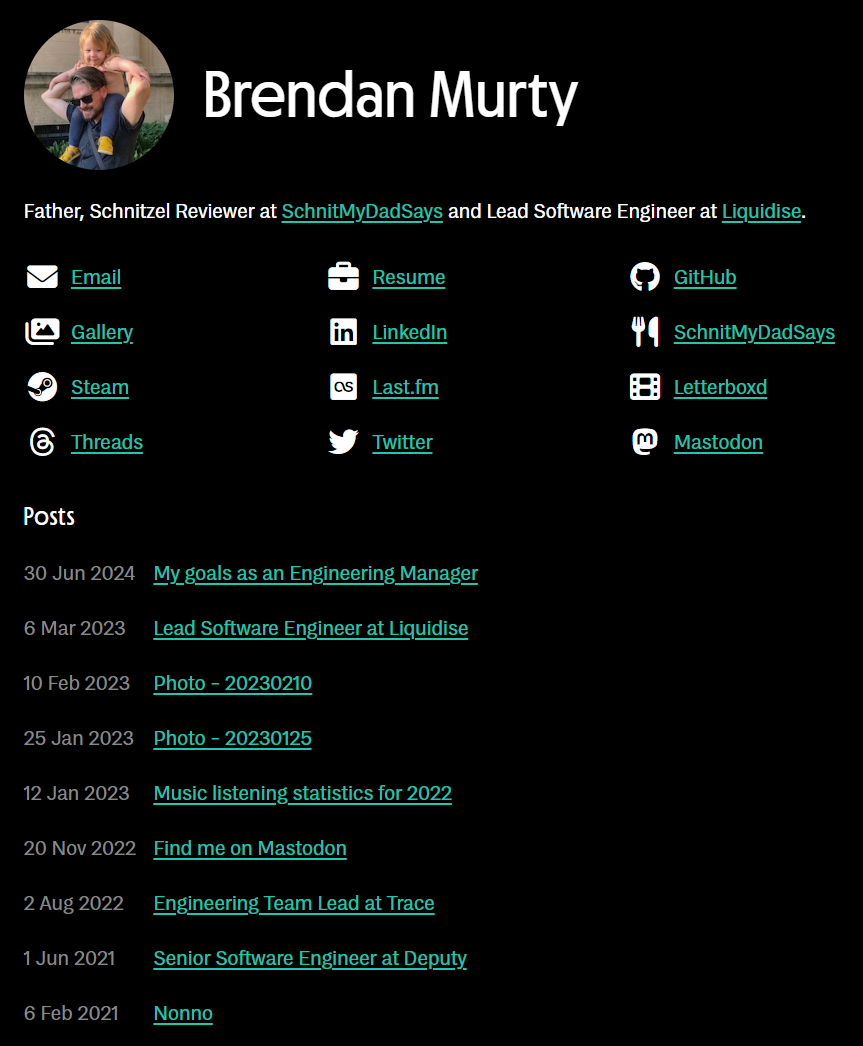
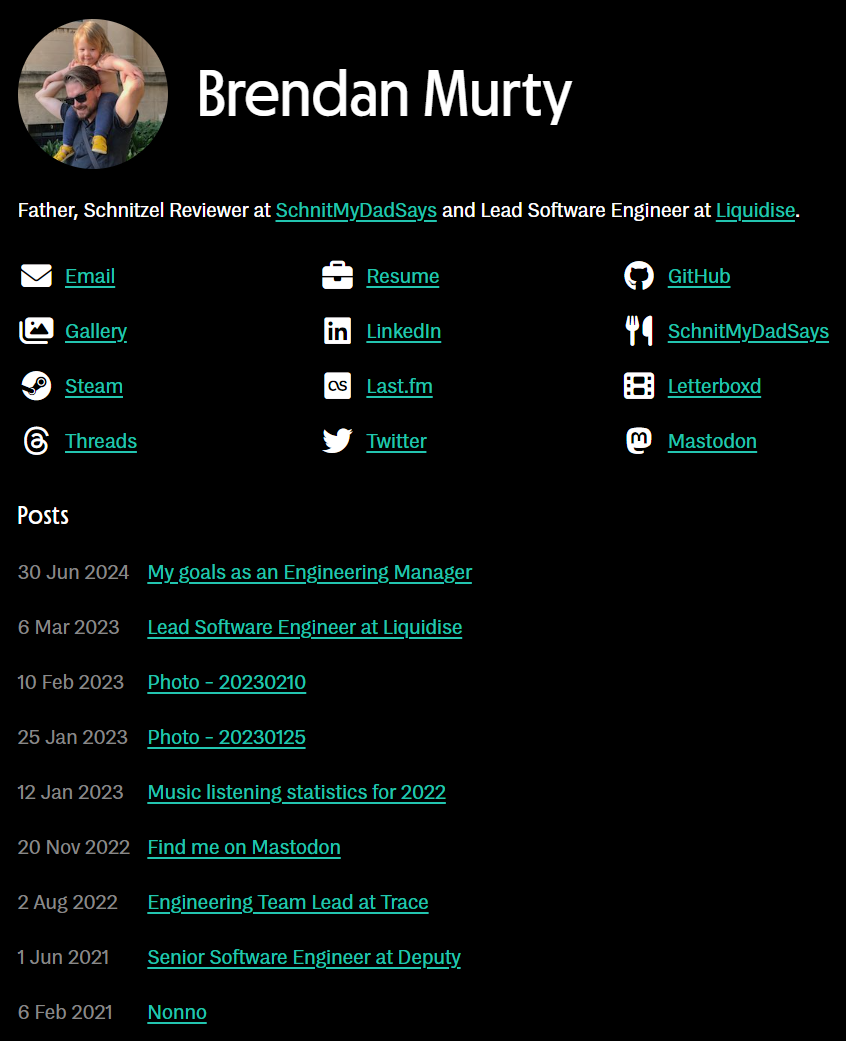
Design: Simplify layout and remove obsolete CSS

diff --git a/styles/all.css b/styles/all.css
@@ -293,7 +293,6 @@ a:focus {
 
 a:hover,
 a:focus,
-.brendan ul.listing:not(.connect) .label,
 .murty ul.sites .list-name {
   text-decoration: underline;
   text-underline-offset: 3px;
@@ -348,33 +347,13 @@ pre {
 
 /* Common styles */
 
-.murty ul.sites {
-  list-style: none;
-  margin: 0;
-  padding: 0;
-}
-
-.murty ul.sites>li {
-  margin: 30px 0 0;
-  padding: 30px 0 0;
-  text-align: left;
-  float: left;
-  clear: both;
-  width: 100%;
-}
-
-.murty ul.sites>li.first {
-  margin-top: 0;
-  padding-top: 0;
-}
-
-.murty ul.sites>li header,
-.murty ul.sites>li article {
+.murty header,
+.murty article {
   width: 100%;
   padding: 0;
 }
 
-.murty ul.sites .list-avatar {
+.murty .list-avatar {
   height: auto;
   width: 150px;
   border-radius: 150px;
@@ -382,7 +361,7 @@ pre {
   float: left;
 }
 
-.murty ul.sites .list-name {
+.murty .list-name {
   display: inline-block;
   line-height: 150px;
   margin: 0;
@@ -391,12 +370,12 @@ pre {
 /* Small sized screens */
 
 @media only screen and (max-width: 900px) {
-  .murty ul.sites .list-avatar {
+  .murty .list-avatar {
     width: 100px;
     border-radius: 100px;
   }
 
-  .murty ul.sites .list-name {
+  .murty .list-name {
     line-height: 100px;
   }
 }

diff --git a/styles/brendan.css b/styles/brendan.css
@@ -22,7 +22,7 @@
 }
 
 .brendan .intro {
-  margin: 25px 0 0;
+  margin: 0;
 }
 
 article>h2 {
@@ -45,7 +45,7 @@ ul.brendan_posts li,
 
 ul.brendan_posts .post-date,
 .brendan_post .post-date,
-.brendan ul.listing.posts .post-date,
+.brendan .posts .post-date,
 .brendan .photo-data .data-title {
   width: 125px;
   color: var(--secondary-colour);
@@ -110,19 +110,19 @@ ul.brendan_posts .post-date,
   box-sizing: border-box;
 }
 
-.brendan ul.listing.twothirds {
+.brendan .twothirds {
   width: 66.6%;
 }
 
-.brendan ul.listing.third {
+.brendan .third {
   width: 33.3%;
 }
 
-.brendan ul.listing.half {
+.brendan .half {
   width: 50%;
 }
 
-.brendan ul.listing.full {
+.brendan .full {
   width: 100%;
 }
 
@@ -205,15 +205,6 @@ ul.brendan_gallery a:active {
 /* Medium sized screens */
 
 @media only screen and (max-width: 750px) {
-
-  .brendan header {
-    height: 145px;
-  }
-
-  .brendan_index header,
-  .murty_index header {
-    height: 100px;
-  }
 
   .brendan header h1 {
     line-height: 100px;
